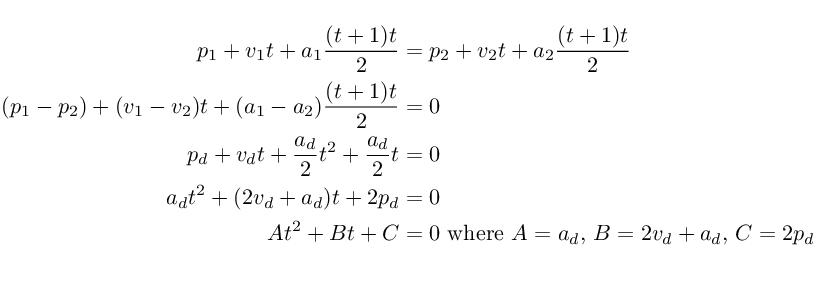
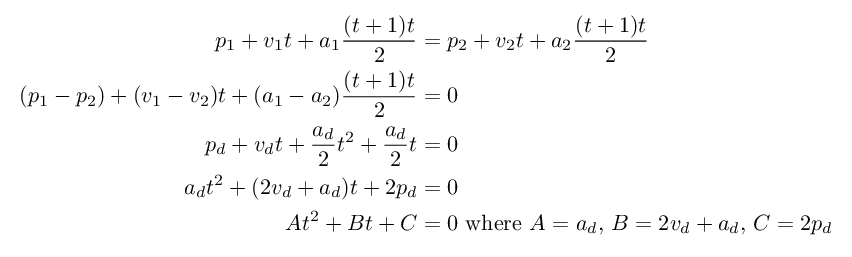
Use more math.

Changed region(s): [[0.0, 0.2802, 1.0, 0.9339], [0.2451, 0.0623, 0.7659, 0.249]]

diff --git a/cmd/genmath/main.go b/cmd/genmath/main.go
@@ -97,6 +97,7 @@ func extract(path string) (snippets []snippet, err error) {
 const texHeader = `
 \documentclass{article}
 \usepackage[active,pdftext,tightpage]{preview}
+\setlength{\PreviewBorder}{2ex}
 \usepackage{amsmath}
 \begin{document}
 \begin{preview}

diff --git a/docs/2019-notes.md b/docs/2019-notes.md
@@ -306,8 +306,17 @@ algorithm. Denoting the `i`'th (1-based) digit of the original signal
 by `s(i)` and the output signal by `t(i)`, one phase (step) of the FFT
 algorithm is represented by the equations:
 
-    t(j) = |sum_(i=1..N) s(i) * W(⌊i / j⌋ mod 4)| mod 10
-    W(0..3) = {0, 1, 0, -1}
+<!--math:day16-p1
+%   t(j) = |sum_(i=1..N) s(i) * W(⌊i / j⌋ mod 4)| mod 10
+%   W(0..3) = {0, 1, 0, -1}
+\vspace*{-2ex}
+\begin{align*}
+t(j) &= \left| \sum_{i=1}^N s(i) * W\left( \lfloor \frac{i}{j} \rfloor \bmod 4 \right)\right| \mod 10 \\
+W(0..3) &= \{0, 1, 0, -1\}
+\end{align*}
+-->
+![day16-p1.png](math/2019-notes-day16-p1.png)
+
 
 ### Part 1
 
@@ -328,16 +337,34 @@ used for the digits of the latter half of the signal in the FFT phase.
 Note how the expression `W(⌊i / j⌋ mod 4)` behaves when `j` is large
 compared to `i`:
 
-    0 <= i < j:   ⌊i / j⌋ = 0  |  W(⌊i / j⌋ mod 4) = 0
-    j <= i < 2j:  ⌊i / j⌋ = 1  |  W(⌊i / j⌋ mod 4) = 1
+<!--math:day16-insight
+%   0 <= i < j:   ⌊i / j⌋ = 0  |  W(⌊i / j⌋ mod 4) = 0
+%   j <= i < 2j:  ⌊i / j⌋ = 1  |  W(⌊i / j⌋ mod 4) = 1
+\vspace*{-3ex}
+\begin{align*}
+0 \leq i < j &:& \lfloor \frac{i}{j}\rfloor &= 0 & W\left( \lfloor \frac{i}{j} \rfloor \bmod 4 \right) &= 0 \\
+j \leq i < 2j &:& \lfloor \frac{i}{j}\rfloor &= 1 & W\left( \lfloor \frac{i}{j} \rfloor \bmod 4 \right) &= 1
+\end{align*}
+-->
+![day16-insight.png](math/2019-notes-day16-insight.png)
 
 What this means is, for the latter half of the signal (where `i < 2j`
 for all digits), we can simplify the algorithm to:
 
-    t(j) = |sum_(i=1..N) s(i) * W(⌊i / j⌋ mod 4)| mod 10
-         = |sum_(i=1..j-1) s(i) * 0 + sum_(i=j..N) s(i) * 1| mod 10
-         = |sum_(i=j..N) s(i)| mod 10
-         = (sum_(i=j..N) s(i)) mod 10
+<!--math:day16-p2
+%   t(j) = |sum_(i=1..N) s(i) * W(⌊i / j⌋ mod 4)| mod 10
+%        = |sum_(i=1..j-1) s(i) * 0 + sum_(i=j..N) s(i) * 1| mod 10
+%        = |sum_(i=j..N) s(i)| mod 10
+%        = (sum_(i=j..N) s(i)) mod 10
+\vspace*{-3ex}
+\begin{align*}
+t(j) &= \left| \sum_{i=1}^N s(i) W\left( \lfloor \frac{i}{j} \rfloor \bmod 4 \right) \right| \mod 10  \\
+&= \left| \sum_{i=1}^{j-1} s(i) \cdot 0 + \sum_{i=j}^N s(i) \cdot 1 \right| \mod 10 \\
+&= \left| \sum_{i=j}^N s(i) \right| \mod 10 \\
+&= \left( \sum_{i=j}^N s(i) \right) \mod 10
+\end{align*}
+-->
+![day16-p2.png](math/2019-notes-day16-p2.png)
 
 In other words, the `j`'th output digit in the latter half is simply
 the sum of all the input digits from its own position to the end of
@@ -419,25 +446,34 @@ graph, given the keys and doors involved.
 
 Formally:
 
-```
-Let G = (V, E) be the graph of keys and entry points, where for each
-edge e = (u, v) ∈ E there are associated values:
-- W(e), a positive integer weight
-- K(e), the set of keys that will be collected by following that edge
-- D(e), the set of keys that are needed to unlock all doors on the way
+<!--math:day18
+Let $G = (V, E)$ be the graph of keys and entry points, where for each
+edge $e = (u, v) \in E$ there are three associated values:
 
-Now define G' = (V', E') and a modified W'(e) where:
-- V' = V^N × 2^K.
-- e' = ((u_1 .. u_n, K_u), (v_1 .. v_n, K_v)) ∈ E' if and only if:
-  - there is an i ∈ [0, N) s.t. e = (u_i, v_i) ∈ E, u_j = v_j ∀j≠i
-  - K_v = K_u ∪ K(e)
-  - K_v ⊆ D(e)
-- W'(e') = W(e)
+\begin{itemize}
+\item $W(e)$, a positive integer weight
+\item $K(e)$, the set of keys that will be collected by following that edge
+\item $D(e)$, the set of keys that are needed to unlock all doors on the way
+\end{itemize}
 
-The shortest path to collect all keys in G is the same as the shortest
-path in G' from (e_1 .. e_n, ∅) to any node (v_1 .. v_n, K), where
-(e_1 .. e_n) is the set of entry points of G and K is the set of keys.
-```
+Now define $G' = (V', E')$ and a modified $W'(e)$ where:
+
+\begin{itemize}
+\item $V' = V^N \times 2^K$
+\item $e' = ((u_1 \ldots u_n, K_u), (v_1 \ldots v_n, K_v)) \in E'$ if and only if:
+\begin{itemize}
+\item there is an $i \in \left[0, N\right)$ s.t. $e = (u_i, v_i) \in E$, $u_j = v_j\ \forall j \neq i$
+\item $K_v = K_u \cup K(e)$
+\item $K_v \subseteq D(e)$
+\end{itemize}
+\item $W'(e') = W(e)$
+\end{itemize}
+
+The shortest path to collect all keys in $G$ is the same as the shortest path in
+$G'$ from $(e_1 \ldots e_n, \emptyset)$ to any node $(v_1 \ldots v_n, K)$, where
+$(e_1 \ldots e_n)$ is the set of entry points of $G$ and $K$ is the set of keys.
+-->
+![day18.png](math/2019-notes-day18.png)
 
 ## [Day 19](https://adventofcode.com/2019/day/19)
 
@@ -591,11 +627,16 @@ The key insights for the solution here are:
 The reverse operations of the shuffle steps on a single location `x`
 are:
 
-```
-deal(x)          = N-1 - x
-cut(x, K)        = (x + K) % N
-interleave(x, K) = (x * K^-1) % N
-```
+<!--math:day22-ops
+\vspace*{-3ex}
+\begin{align*}
+\mathsf{deal}(x) &= (N-1)-x \\
+\mathsf{cut}(x, K) &= x + K \pmod N \\
+\mathsf{interleave}(x, K) &= x K^{-1} \pmod N
+\end{align*}
+-->
+![day22-ops.png](math/2019-notes-day22-ops.png)
+
 
 For the last operation, `K^-1` denotes the
 *[modular inverse](http://mathworld.wolfram.com/ModularInverse.html)*
@@ -603,40 +644,44 @@ of `K` (modulo `N`).
 
 The required compositions of transformations are therefore:
 
-```
-Let f(x) = (A*x + B) % N and g(x) = (C*x + D) % N be arbitrary transformations.
+<!--math:day22-comp
+Let $f(x) = (Ax + B) \bmod N$ and $g(x) = (Cx + D) \bmod N$ be two arbitrary
+transformations.
 
-deal(f(x))
-= N-1 - (A*x + B) % N
-= (((-A) % N)*x + N-1 - B) % N
-
-cut(f(x), K)
-= ((A*x + B) % N + K) % N
-= (A*x + (B + K) % N) % N
-
-interleave(f(x), K)
-= ((A*x + B) % N * K^-1) % N
-= ((A * K^-1 % N)*x + (B * K^-1) % N) % N
-
+\begin{align*}
+\mathsf{deal}(f(x))
+&= (N-1) - (Ax + B) \bmod N \\
+&= (((-A) \bmod N) x + (N-1) - B) \bmod N \\
+\mathsf{cut}(f(x), K)
+&= ((Ax + B) \bmod N + K) \bmod N \\
+&= (Ax + (B+K) \bmod N) \bmod N \\
+\mathsf{interleave}(f(x), K)
+&= ((Ax + B) \bmod N \cdot K^{-1}) \bmod N \\
+&= ((A K^{-1} \bmod N) x + B K^{-1} \bmod N) \bmod N \\
 g(f(x))
-= (C*((A*x + B) % N) + D) % N
-= ((C * A % N)*x + (C * B + D) % N) % N
-
+&= (C((Ax + B) \bmod N) + D) \bmod N \\
+&= ((CA \bmod N)x + (CB+D) \bmod N) \bmod N \\
 f(f(x))
-= ((A * A % N)*x + (A * B + B) % N) % N
-= ((A^2 % N)*x + ((A + 1) * B) % N) % N
-```
+&= ((AA \bmod N)x + (AB+B) \bmod N) \bmod N \\
+&= ((A^2 \bmod N)x + (A+1)B \bmod N) \bmod N
+\end{align*}
+-->
+![day22-comp.png](math/2019-notes-day22-comp.png)
 
-Or in terms of the updates to the parameters:
+Or expressed in terms of the updates to the parameters:
 
-```
-               A                B
-deal           (-A) % N         B
-cut K          A                (B + K) % N
-interleave K   (A * K^-1) % N   (B * K^-1) % N
-f . g          (A * C) % N      (B * C + D) % N
-f^2            A^2 % N          ((A + 1) * B) % N
-```
+<!--math:day22-param
+\vspace*{-3ex}
+\begin{align*}
+& && A && B \\
+& \mathsf{deal} && (-A) \bmod N && B \\
+& \mathsf{cut}\ K && A && (B + K) \bmod N \\
+& \mathsf{interleave}\ K && A K^{-1} \bmod N && B K^{-1} \bmod N \\
+& f \circ g && AC \bmod N && (BC+D) \bmod N \\
+& f^2 && A^2 \bmod N && (A+1)B \bmod N
+\end{align*}
+-->
+![day22-param.png](math/2019-notes-day22-param.png)
 
 ## [Day 23](https://adventofcode.com/2019/day/23)
 

diff --git a/docs/2017-notes.md b/docs/2017-notes.md
@@ -161,11 +161,11 @@ vectors).
 For any particle, its velocity `v(t)` at time `t` is given by:
 
 <!--math:day20-v
+\vspace*{-3ex}
 \begin{align*}
 v(t) &= v_0 + \sum_{i=0}^{t-1} a \\
 &= v_0 + t a
 \end{align*}
-\vspace{0bp}
 -->
 ![day20-v.png](math/2017-notes-day20-v.png)
 
@@ -173,13 +173,13 @@ As velocities are updated before positions rather than atomically, for the
 position `p(t)` at time `t` we need slightly different summation indices:
 
 <!--math:day20-p
+\vspace*{-3ex}
 \begin{align*}
 p(t) &= p_0 + \sum_{i=1}^t v(i) \\
 &= p_0 + \sum_{i=1}^t (v_0 + i a) \\
 &= p_0 + \sum_{i=1}^t v_0 + \sum_{i=1}^t i a \\
 &= p_0 + t v_0 + \frac{(t+1)t}{2} a
 \end{align*}
-\vspace{0bp}
 -->
 ![day20-p.png](math/2017-notes-day20-p.png)
 
@@ -191,6 +191,7 @@ collides only if the three dimensions have a common (integer) solution for `t`.
 We have:
 
 <!--math:day20-coll
+\vspace*{-3ex}
 \begin{align*}
 p_1 + v_1 t + a_1 \frac{(t+1)t}{2} &= p_2 + v_2 t + a_2 \frac{(t+1)t}{2} \\
 (p_1-p_2) + (v_1-v_2) t + (a_1-a_2) \frac{(t+1)t}{2} &= 0 \\
@@ -198,7 +199,6 @@ p_d + v_d t + \frac{a_d}{2} t^2 + \frac{a_d}{2} t &= 0 \\
 a_d t^2 + (2 v_d + a_d) t + 2 p_d &= 0 \\
 A t^2 + B t + C &= 0\ \textrm{where $A=a_d$, $B=2 v_d+a_d$, $C=2 p_d$}
 \end{align*}
-\vspace{0bp}
 -->
 ![day20-p.png](math/2017-notes-day20-coll.png)
 
